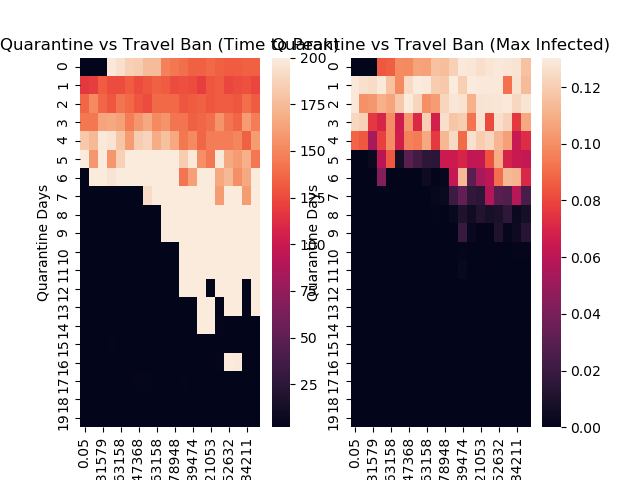
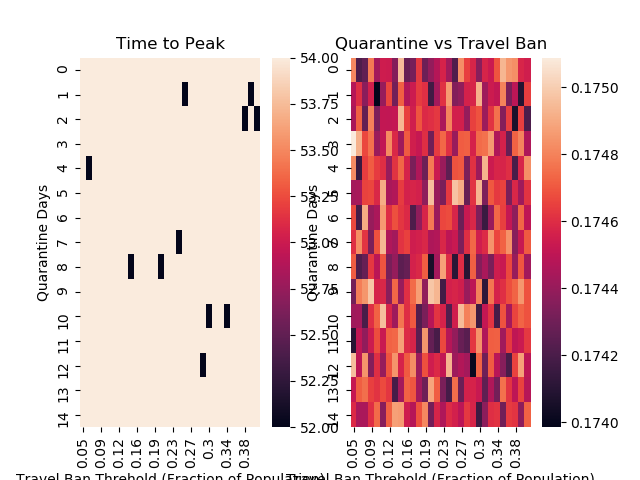
revised images

diff --git a/seirs_node.py b/seirs_node.py
@@ -74,10 +74,15 @@ class SEIRSNode(DiseaseNode):
 
         for connection in self.connections:
             travel_amount = connection.get_travel(self.threshold_func, self.I, self.get_population())
-            S_change = int(self.S / self.get_population() * travel_amount)
-            E_change = int(self.E / self.get_population() * travel_amount)
-            I_change = int(self.I / self.get_population() * travel_amount)
-            R_change = int(self.R / self.get_population() * travel_amount)
+            travel_frac = travel_amount / self.get_population()
+            S_change = binomial(max(self.S, 0), travel_frac)
+            E_change = binomial(max(self.E, 0), travel_frac)
+            I_change = binomial(max(self.I, 0), travel_frac)
+            R_change = binomial(max(self.R, 0), travel_frac)
+            # S_change = int(self.S / self.get_population() * travel_amount)
+            # E_change = int(self.E / self.get_population() * travel_amount)
+            # I_change = int(self.I / self.get_population() * travel_amount)
+            # R_change = int(self.R / self.get_population() * travel_amount)
 
             connection.node.add_incoming_travel(S_change, E_change, I_change, R_change)
             self.S_travel_out -= S_change
